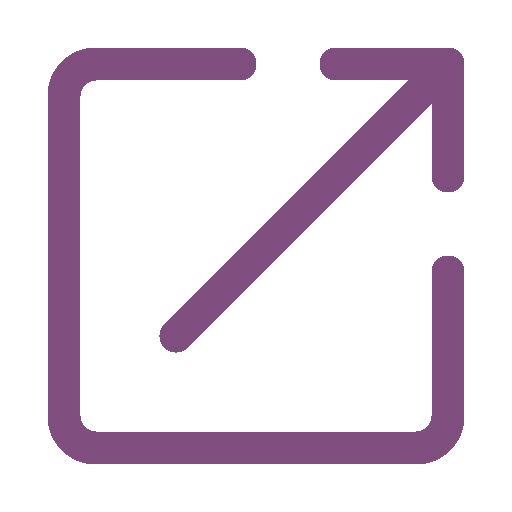
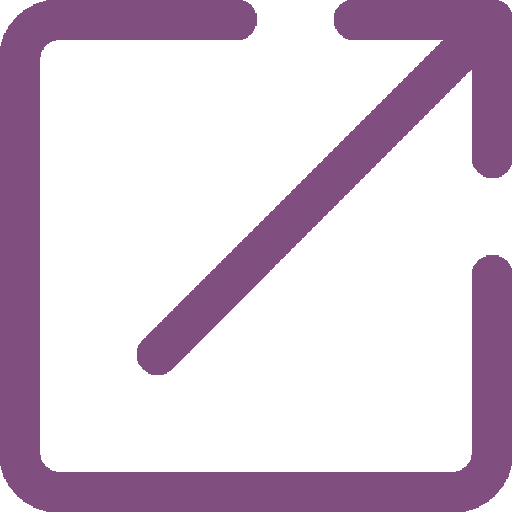
V7.7

diff --git a/index.html b/index.html
@@ -132,11 +132,15 @@
                         <div class="answer-container">
                             <div class="english">
                                 Our wedding will be at One&Only Desaru Coast in Johor, Malaysia. The resort’s address is: 
-                                <a class="faq-link" href="https://maps.app.goo.gl/ZNL298UGyn8AYR3H9" target="_blank">Darul Ta’zim, Persiaran Damai, Desaru Coast Bandar Penawar, 90, 81930, Johor, Malaysia.</a> Both the ceremony and dinner will be hosted at Ember Beach Club.
+                                <a class="faq-link" href="https://maps.app.goo.gl/ZNL298UGyn8AYR3H9" target="_blank">Darul Ta’zim, Persiaran Damai, Desaru Coast Bandar Penawar, 90, 81930, Johor, Malaysia
+                                    <img class="link-icon" src="./assets/LINK-ICON.png" alt="link img">
+                                </a> Both the ceremony and dinner will be hosted at Ember Beach Club.
                             </div>
                             <div class="chinese" style="display: none;">
                                 我们的婚礼将在One&Only Desaru Coast, 柔佛州, 马来西亚。度假村的地址是：
-                                <a class="faq-link" href="https://maps.app.goo.gl/ZNL298UGyn8AYR3H9" target="_blank">Darul Ta’zim, Persiaran Damai, Desaru Coast Bandar Penawar, 90, 81930, Johor, Malaysia。</a>
+                                <a class="faq-link" href="https://maps.app.goo.gl/ZNL298UGyn8AYR3H9" target="_blank">Darul Ta’zim, Persiaran Damai, Desaru Coast Bandar Penawar, 90, 81930, Johor, Malaysia
+                                    <img class="link-icon" src="./assets/LINK-ICON.png" alt="link img">
+                                </a>
                                 仪式和晚宴将在 Ember Beach Club 举行。
                             </div>
                         </div>
@@ -158,10 +162,12 @@
                                 <b>By Car/Taxi</b>: The quickest option is to take a car or taxi, which typically takes about 1.5 hours to 2 hours from Johor Bahru checkpoint.
                                 <br><br style="line-height: 0.6;">
                                 <b>By Bus</b>: There are a few bus companies that operate direct services from Singapore to your hotels in Desaru Coast. The bus tickets are about $55sgd~ for a round trip. You may check popular booking platforms such as 
-                                <a class="faq-link" href="https://www.easybook.com" target="_blank">easybook.com</a>
-                                <img class="link-icon" src="./assets/LINK-ICON.png" alt="link img"> or 
-                                <a class="faq-link" href="https://www.busonlineticket.com" target="_blank">busonlineticket.com</a>
-                                <img class="link-icon" src="./assets/LINK-ICON.png" alt="link img">
+                                <a class="faq-link" href="https://www.easybook.com" target="_blank">easybook.com 
+                                    <img class="link-icon" src="./assets/LINK-ICON.png" alt="link img">
+                                </a> or 
+                                <a class="faq-link" href="https://www.busonlineticket.com" target="_blank">busonlineticket.com 
+                                    <img class="link-icon" src="./assets/LINK-ICON.png" alt="link img">
+                                </a>    
                                 for schedules and availability.
                                 <br><br style="line-height: 0.6;">
                                 <b>By Ferry</b>: You may also consider a 1.5 hours ferry ride from Singapore Tanah Merah Ferry Terminal to Desaru Coast Ferry Terminal.The ferry tickets are about $160sgd~ for a round trip. From there, we will be able to arrange pick up for you. 
@@ -172,8 +178,12 @@
                                 目前我们没有安排从新加坡到德沙鲁海岸的交通。不过，您可以选择以下几种便捷的自费方式前：
                                 <br><br style="line-height: 0.7;"><b>自驾/出租车</b>：最快的方式是乘坐汽车或出租车，通常从柔佛新山关卡到达大约需要1.5小时到2小时。
                                 <br><br style="line-height: 0.6;"><b>巴士</b>：有几家巴士公司提供从新加坡直达德沙鲁海岸酒店的服务。往返票价大约为55新加坡元。您可以查看 
-                                <a class="faq-link" href="https://www.easybook.com" target="_blank">easybook.com</a> 或 
-                                <a class="faq-link" href="https://www.busonlineticket.com" target="_blank">busonlineticket.com</a> 等热门订票平台以获取时间表和可用性。
+                                <a class="faq-link" href="https://www.easybook.com" target="_blank">easybook.com 
+                                    <img class="link-icon" src="./assets/LINK-ICON.png" alt="link img">
+                                </a> 或 
+                                <a class="faq-link" href="https://www.busonlineticket.com" target="_blank">busonlineticket.com 
+                                    <img class="link-icon" src="./assets/LINK-ICON.png" alt="link img">
+                                </a> 等热门订票平台以获取时间表和可用性。
                                 <br><br style="line-height: 0.6;"><b>渡轮</b>：您还可以考虑从新加坡的淡米尔渡轮码头乘坐1.5小时的渡轮到德沙鲁海岸渡轮码头。往返票价大约为160新加坡元。从那里，我们将为您安排接送服务。
                                 <br><br style="line-height: 0.7;">感谢您的理解，期待与您相见！
                             </div>
@@ -238,12 +248,26 @@
                         <div class="answer-container">
                             <div class="english">
                                 Click Here: 
-                                <a class="faq-link" href="https://withjoy.com/jiahao-and-valerie/rsvp" target="_blank">Link to RSVP</a> 
+                                <a class="faq-link" href="https://withjoy.com/jiahao-and-valerie/rsvp" target="_blank">Link to RSVP 
+                                    <img class="link-icon" src="./assets/LINK-ICON.png" alt="link img">
+                                </a>
+                                <br>
+                                Click Here: 
+                                <a class="faq-link" href="./assets/SAVE THE DATE.ics">Link to Calander 
+                                    <img class="link-icon" src="./assets/LINK-ICON.png" alt="link img">
+                                </a>
                                 <br>It will bring you to a different website to register.
                             </div>
                             <div class="chinese" style="display: none;">
                                 点击此处： 
-                                <a class="faq-link" href="https://withjoy.com/jiahao-and-valerie/rsvp" target="_blank">链接以回复参加</a> 
+                                <a class="faq-link" href="https://withjoy.com/jiahao-and-valerie/rsvp" target="_blank">链接以回复参加
+                                    <img class="link-icon" src="./assets/LINK-ICON.png" alt="link img">
+                                </a> 
+                                <br>
+                                点击此处： 
+                                <a class="faq-link" href="./assets/SAVE THE DATE.ics">链接添加到您的日历
+                                    <img class="link-icon" src="./assets/LINK-ICON.png" alt="link img">
+                                </a>
                                 <br>这将带您到一个不同的网站进行注册。
                             </div>
                         </div>

diff --git a/mediaqueries.css b/mediaqueries.css
@@ -158,6 +158,10 @@
         height: min(5vw, 5vh);
         width: min(22vw, 22vh);
     }
+
+    .link-icon{
+        height: min(2vw, 2vh);
+    }
 }
 
 

diff --git a/style.css b/style.css
@@ -535,7 +535,7 @@ section {
 }
 
 .link-icon{
-    height: min(2vw, 2vh);
+    height: min(1.2vw, 1.2vh);
     width: auto;
 }
 